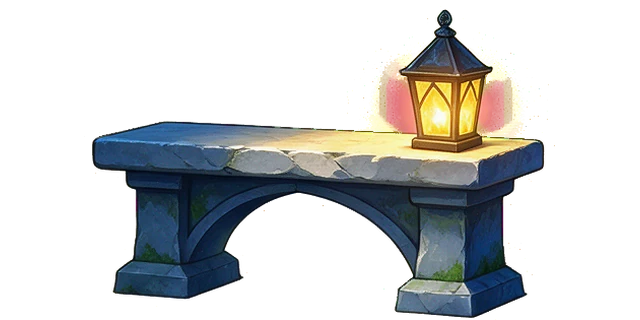
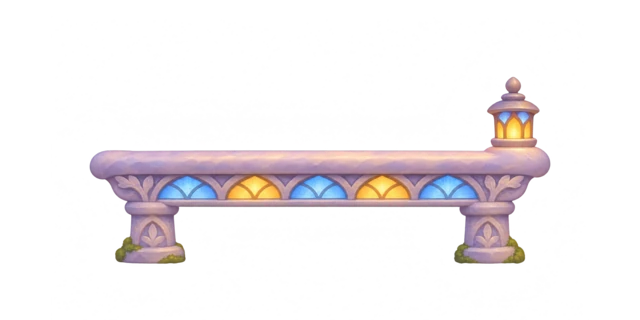
The new painted art: quiz pictures, Party Grove, owl perches (OP-404) (#254)
* OP-404: the new painted art in the game: quiz pictures, Party Grove, owl perches

- 85 quiz pictures (quiz-<key>.png, 96 and 192 px): every answer card draws its picture.
- Party Grove screens (hub-west, hub, hub-east, hub-fg) replace today's files under the same keys;
  2x screens re-encoded at WebP q80-84 to stay inside the art budget.
- The four owl perches replace today's under the same keys; stand.json, kitCatalog.ts and
  sprites.json re-measured so each stands on its feet.

The ink Commons pieces wait for OP-402's room.

* OP-404: the quiz's browser test looks for each answer's painted picture; a painter's tab keeps its boxes

---------

diff --git a/packages/shared/src/kitCatalog.ts b/packages/shared/src/kitCatalog.ts
@@ -423,7 +423,7 @@ export const KIT_CATALOG: Readonly<Record<string, KitCatalogEntry>> = {
   'kit-clearing-log-shortcut': { w: 400, h: 200, kind: 'piece', top: 55, foot: 200, left: 9, right: 392 },
   'kit-clearing-bough-perch': { w: 320, h: 120, kind: 'piece', top: 47, foot: 120, left: 23, right: 297 },
   'kit-clearing-gust-leaves': { w: 240, h: 320, kind: 'piece', top: 143, foot: 320, left: 7, right: 222 },
-  'kit-clearing-checkpoint-bench': { w: 320, h: 160, kind: 'piece', top: 19, foot: 160, left: 51, right: 266 },
+  'kit-clearing-checkpoint-bench': { w: 320, h: 160, kind: 'piece', top: 71, foot: 123, left: 50, right: 277 },
   'kit-clearing-hut-door-closed': { w: 240, h: 320, kind: 'piece', top: 93, foot: 320, left: 5, right: 235 },
   'kit-clearing-hut-door-open': { w: 240, h: 320, kind: 'piece', top: 142, foot: 320, left: 5, right: 236 },
   'kit-clearing-deck-rail': { w: 400, h: 120, kind: 'piece', top: 19, foot: 120, left: 107, right: 294 },
@@ -432,7 +432,7 @@ export const KIT_CATALOG: Readonly<Record<string, KitCatalogEntry>> = {
   'kit-neon-neon-tube-hazard': { w: 80, h: 240, kind: 'piece', top: 98, foot: 240, left: 1, right: 79 },
   'kit-neon-rooftop-door-closed': { w: 240, h: 320, kind: 'piece', top: 86, foot: 320, left: 10, right: 229 },
   'kit-neon-rooftop-door-open': { w: 240, h: 320, kind: 'piece', top: 83, foot: 320, left: 11, right: 228 },
-  'kit-neon-checkpoint-bench': { w: 320, h: 160, kind: 'piece', top: 46, foot: 160, left: 40, right: 284 },
+  'kit-neon-checkpoint-bench': { w: 320, h: 160, kind: 'piece', top: 95, foot: 148, left: 35, right: 286 },
   'kit-neon-cable-span': { w: 400, h: 80, kind: 'piece', top: 31, foot: 80, left: 97, right: 303 },
   'kit-neon-rooftop-garden': { w: 320, h: 160, kind: 'piece', top: 58, foot: 160, left: 9, right: 312 },
   'kit-neon-tank-ladder': { w: 120, h: 400, kind: 'piece', top: 105, foot: 400, left: 2, right: 118 },
@@ -449,7 +449,7 @@ export const KIT_CATALOG: Readonly<Record<string, KitCatalogEntry>> = {
   'kit-glass-cloud-ledge': { w: 320, h: 120, kind: 'piece', top: 12, foot: 112, left: 7, right: 307 },
   'kit-glass-door-pane-closed': { w: 240, h: 320, kind: 'piece', top: 34, foot: 315, left: 13, right: 225 },
   'kit-glass-door-pane-open': { w: 240, h: 320, kind: 'piece', top: 33, foot: 315, left: 13, right: 225 },
-  'kit-glass-checkpoint-bench': { w: 320, h: 160, kind: 'piece', top: 62, foot: 159, left: 46, right: 272 },
+  'kit-glass-checkpoint-bench': { w: 320, h: 160, kind: 'piece', top: 75, foot: 132, left: 45, right: 275 },
   'kit-glass-thorn-ceiling': { w: 400, h: 120, kind: 'piece', top: 14, foot: 116, left: 68, right: 328 },
   'kit-glass-act-arch': { w: 320, h: 400, kind: 'piece', top: 44, foot: 390, left: 30, right: 295 },
   'kit-glass-strand-rail': { w: 120, h: 400, kind: 'piece', top: 133, foot: 395, left: 16, right: 99 },
@@ -461,7 +461,7 @@ export const KIT_CATALOG: Readonly<Record<string, KitCatalogEntry>> = {
   'kit-ink-waterfall-curtain': { w: 240, h: 400, kind: 'piece', top: 11, foot: 398, left: 30, right: 211 },
   'kit-ink-door-paper-closed': { w: 240, h: 320, kind: 'piece', top: 140, foot: 320, left: 5, right: 236 },
   'kit-ink-door-paper-open': { w: 240, h: 320, kind: 'piece', top: 143, foot: 320, left: 5, right: 235 },
-  'kit-ink-checkpoint-bench': { w: 320, h: 160, kind: 'piece', top: 120, foot: 160, left: 61, right: 254 },
+  'kit-ink-checkpoint-bench': { w: 320, h: 160, kind: 'piece', top: 97, foot: 151, left: 40, right: 278 },
   'kit-ink-lotus-pads': { w: 320, h: 120, kind: 'piece', top: 58, foot: 117, left: 14, right: 305 },
   'kit-ink-crane-perch': { w: 120, h: 400, kind: 'piece', top: 120, foot: 399, left: 3, right: 117 },
   'kit-ink-pond-edge': { w: 400, h: 120, kind: 'piece', top: 40, foot: 117, left: 72, right: 329 },
@@ -777,8 +777,8 @@ export const KIT_CATALOG: Readonly<Record<string, KitCatalogEntry>> = {
   'kit-ink-knot-hole--ink-moon-gate': { w: 320, h: 320, kind: 'piece', top: 114, foot: 311, left: 6, right: 313, slot: 'knot-hole', standIn: 'kit-ink-moon-gate' },
   'kit-ink-knot-hole--ink-door-paper-open': { w: 240, h: 320, kind: 'piece', top: 143, foot: 320, left: 5, right: 235, slot: 'knot-hole', standIn: 'kit-ink-door-paper-open' },
   'kit-ink-knot-hole--ink-waterfall-curtain': { w: 240, h: 400, kind: 'piece', top: 11, foot: 398, left: 30, right: 211, slot: 'knot-hole', standIn: 'kit-ink-waterfall-curtain' },
-  'kit-ink-roost': { w: 320, h: 160, kind: 'piece', top: 120, foot: 160, left: 61, right: 254, slot: 'roost', standIn: 'kit-ink-checkpoint-bench' },
-  'kit-ink-roost--ink-checkpoint-bench': { w: 320, h: 160, kind: 'piece', top: 120, foot: 160, left: 61, right: 254, slot: 'roost', standIn: 'kit-ink-checkpoint-bench' },
+  'kit-ink-roost': { w: 320, h: 160, kind: 'piece', top: 97, foot: 151, left: 40, right: 278, slot: 'roost', standIn: 'kit-ink-checkpoint-bench' },
+  'kit-ink-roost--ink-checkpoint-bench': { w: 320, h: 160, kind: 'piece', top: 97, foot: 151, left: 40, right: 278, slot: 'roost', standIn: 'kit-ink-checkpoint-bench' },
   'kit-ink-lost-feather': { w: 80, h: 120, kind: 'piece', top: 12, foot: 120, left: 15, right: 64, slot: 'lost-feather', standIn: 'kit-ink-feather-lost' },
   'kit-ink-lost-feather--ink-feather-lost': { w: 80, h: 120, kind: 'piece', top: 12, foot: 120, left: 15, right: 64, slot: 'lost-feather', standIn: 'kit-ink-feather-lost' },
   'kit-ink-hazard': { w: 320, h: 120, kind: 'piece', top: 0, foot: 120, left: 0, right: 320, slot: 'hazard' },
@@ -861,8 +861,8 @@ export const KIT_CATALOG: Readonly<Record<string, KitCatalogEntry>> = {
   'kit-clearing-knot-hole--clearing-hut-door-open': { w: 240, h: 320, kind: 'piece', top: 142, foot: 320, left: 5, right: 236, slot: 'knot-hole', standIn: 'kit-clearing-hut-door-open' },
   'kit-clearing-knot-hole--clearing-vine-curtain': { w: 240, h: 320, kind: 'piece', top: 117, foot: 319, left: 5, right: 235, slot: 'knot-hole', standIn: 'kit-clearing-vine-curtain' },
   'kit-clearing-knot-hole--landmark-hut-lookout': { w: 400, h: 400, kind: 'piece', top: 22, foot: 400, left: 8, right: 392, slot: 'knot-hole', standIn: 'kit-landmark-hut-lookout' },
-  'kit-clearing-roost': { w: 320, h: 160, kind: 'piece', top: 19, foot: 160, left: 51, right: 266, slot: 'roost', standIn: 'kit-clearing-checkpoint-bench' },
-  'kit-clearing-roost--clearing-checkpoint-bench': { w: 320, h: 160, kind: 'piece', top: 19, foot: 160, left: 51, right: 266, slot: 'roost', standIn: 'kit-clearing-checkpoint-bench' },
+  'kit-clearing-roost': { w: 320, h: 160, kind: 'piece', top: 71, foot: 123, left: 50, right: 277, slot: 'roost', standIn: 'kit-clearing-checkpoint-bench' },
+  'kit-clearing-roost--clearing-checkpoint-bench': { w: 320, h: 160, kind: 'piece', top: 71, foot: 123, left: 50, right: 277, slot: 'roost', standIn: 'kit-clearing-checkpoint-bench' },
   'kit-clearing-lost-feather': { w: 80, h: 120, kind: 'piece', top: 9, foot: 120, left: 17, right: 63, slot: 'lost-feather', standIn: 'kit-clearing-feather-lost' },
   'kit-clearing-lost-feather--clearing-feather-lost': { w: 80, h: 120, kind: 'piece', top: 9, foot: 120, left: 17, right: 63, slot: 'lost-feather', standIn: 'kit-clearing-feather-lost' },
   'kit-clearing-hazard': { w: 320, h: 160, kind: 'piece', top: 24, foot: 160, left: 42, right: 278, slot: 'hazard', standIn: 'kit-clearing-bramble-patch' },
@@ -928,8 +928,8 @@ export const KIT_CATALOG: Readonly<Record<string, KitCatalogEntry>> = {
   'kit-neon-mid--neon-mid-c': { w: 800, h: 450, kind: 'layer', slot: 'mid', standIn: 'kit-neon-mid-c' },
   'kit-neon-knot-hole': { w: 240, h: 320, kind: 'piece', top: 83, foot: 320, left: 11, right: 228, slot: 'knot-hole', standIn: 'kit-neon-rooftop-door-open' },
   'kit-neon-knot-hole--neon-rooftop-door-open': { w: 240, h: 320, kind: 'piece', top: 83, foot: 320, left: 11, right: 228, slot: 'knot-hole', standIn: 'kit-neon-rooftop-door-open' },
-  'kit-neon-roost': { w: 320, h: 160, kind: 'piece', top: 46, foot: 160, left: 40, right: 284, slot: 'roost', standIn: 'kit-neon-checkpoint-bench' },
-  'kit-neon-roost--neon-checkpoint-bench': { w: 320, h: 160, kind: 'piece', top: 46, foot: 160, left: 40, right: 284, slot: 'roost', standIn: 'kit-neon-checkpoint-bench' },
+  'kit-neon-roost': { w: 320, h: 160, kind: 'piece', top: 95, foot: 148, left: 35, right: 286, slot: 'roost', standIn: 'kit-neon-checkpoint-bench' },
+  'kit-neon-roost--neon-checkpoint-bench': { w: 320, h: 160, kind: 'piece', top: 95, foot: 148, left: 35, right: 286, slot: 'roost', standIn: 'kit-neon-checkpoint-bench' },
   'kit-neon-lost-feather': { w: 80, h: 120, kind: 'piece', top: 44, foot: 118, left: 21, right: 59, slot: 'lost-feather', standIn: 'kit-neon-feather-lost' },
   'kit-neon-lost-feather--neon-feather-lost': { w: 80, h: 120, kind: 'piece', top: 44, foot: 118, left: 21, right: 59, slot: 'lost-feather', standIn: 'kit-neon-feather-lost' },
   'kit-neon-hazard': { w: 80, h: 240, kind: 'piece', top: 98, foot: 240, left: 1, right: 79, slot: 'hazard', standIn: 'kit-neon-neon-tube-hazard' },

diff --git a/apps/park/src/ui/whichOwl.ts b/apps/park/src/ui/whichOwl.ts
@@ -11,15 +11,15 @@
  *
  * Nothing typed, no names, no score shown, no back button. The answers are kept nowhere: only the
  * result goes on, as the look. The words, picture slots and points are in
- * packages/shared/src/whichOwlBank.ts. Until an artist paints the answers' pictures (OP-326,
- * docs/QUIZ-ART.md) a visitor sees each answer as a card of words (OP-365): the slot, a box with its
- * painted size on it, shows only on a painter's or a keeper's tab (showsArtBoxes), where the box
- * tells the artist what to make.
+ * packages/shared/src/whichOwlBank.ts. Each answer draws its painted picture (OP-404, quizPicture);
+ * a card with an answer still unpainted shows words alone (OP-365), and the slot, a box with its
+ * painted size on it, shows only on a painter's or a keeper's tab (showsArtBoxes).
  *
  * TODO-DOCS (OP-365): docs/QUIZ-ART.md says the game draws the dashed box for every visitor; it
  * draws it with `?paint=1` or `?keeper=1` in the address, and word cards otherwise.
  */
 import { COLOUR_SETS, QUIZ_ART_SIZE, WHICH_OWL_WORDS as W, drawCards, getSpecies, natureDef, natureOf, quizLook, type ColourSetId, type Nature, type OwlLook, type QuizAnswer, type QuizCard } from '@owl-park/shared';
+import { PUBLISHED_ART, versioned } from '../game/publishedArt';
 import { createModal } from './modal';
 import type { PreviewFrame } from './owlBuilder';
 
@@ -32,6 +32,19 @@ import type { PreviewFrame } from './owlBuilder';
 export function showsArtBoxes(search: string): boolean {
   const q = new URLSearchParams(search);
   return q.get('paint') === '1' || q.get('keeper') === '1';
+}
+
+/**
+ * An answer's painted picture as the build ships it (OP-404): `quiz-<art key>.webp` or `.png` in
+ * public/art, with its `@2x` copy for a dense screen, or null while it has none.
+ */
+export function quizPicture(pic: string, published: ReadonlyMap<string, string> = PUBLISHED_ART): { src: string; srcset: string } | null {
+  const base = `${import.meta.env.BASE_URL.replace(/\/?$/, '/')}art/`;
+  const at = (name: string) => `${base}${published === PUBLISHED_ART ? versioned(name) : encodeURIComponent(name)}`;
+  const one = ['webp', 'png'].map((ext) => `quiz-${pic}.${ext}`).find((n) => published.has(n));
+  if (!one) return null;
+  const two = ['webp', 'png'].map((ext) => `quiz-${pic}@2x.${ext}`).find((n) => published.has(n));
+  return { src: at(one), srcset: two ? `${at(one)} 1x, ${at(two)} 2x` : '' };
 }
 
 /** How a run ended: the owl's new look, and which button took it on. */
@@ -88,6 +101,8 @@ const CSS = `
 /* The picture's place (OP-326), on a painter's or keeper's tab: a box with the size to paint it at, until the art comes. */
 #hud .which-owl .wo-pic{display:flex;align-items:center;justify-content:center;width:clamp(64px,12vh,${QUIZ_ART_SIZE}px);aspect-ratio:1;border:2px dashed rgba(246,241,227,.5);border-radius:12px;
   font-size:12px;font-weight:600;letter-spacing:.02em;color:rgba(246,241,227,.75);background:rgba(246,241,227,.05)}
+/* A painted picture (OP-404) in the box's place: the same size, no dashes. */
+#hud .which-owl img.wo-pic.wo-painted{display:block;border:0;padding:0;background:none;object-fit:contain}
 #hud .which-owl .wo-feather{width:clamp(48px,10vh,76px);height:clamp(48px,10vh,76px)}
 /* The owl is the reveal's centrepiece: it never gives up its room when the words run past a phone's
    screen (a flex child shrinks by default, which left a thumb-sized owl), and on a phone the owl
@@ -195,11 +210,22 @@ export function createWhichOwlScreen(root: HTMLElement): WhichOwlScreen {
     const q = say(card.ask);
     q.classList.add('wo-step');
     const picks = document.createElement('div');
-    picks.className = `wo-picks n${card.answers.length}${artBoxes ? '' : ' words'} wo-step`;
+    // A card shows pictures when every answer on it has one (a card half pictures, half words reads as broken);
+    // a painter's tab keeps its boxes, which tell the artist each picture's size and key.
+    const pics = card.answers.map((a) => quizPicture(a.pic));
+    const pictured = !artBoxes && pics.length > 0 && pics.every((p) => p !== null);
+    picks.className = `wo-picks n${card.answers.length}${artBoxes || pictured ? '' : ' words'} wo-step`;
     picks.dataset['woCard'] = card.id;
     card.answers.forEach((a, n) => {
       const b = button('', 'wo-pick', { woAnswer: String(n) });
-      if (artBoxes) {
+      if (pictured) {
+        const { src, srcset } = pics[n]!;
+        const img = Object.assign(document.createElement('img'), { className: 'wo-pic wo-painted', src, alt: '', width: QUIZ_ART_SIZE, height: QUIZ_ART_SIZE, decoding: 'async' });
+        if (srcset) img.srcset = srcset;
+        img.setAttribute('aria-hidden', 'true');
+        img.dataset['woArt'] = a.pic;
+        b.append(img);
+      } else if (artBoxes) {
         // For the artist: the art key names the picture, and the box says the size to paint it at.
         const pic = Object.assign(document.createElement('span'), { className: 'wo-pic', textContent: `${QUIZ_ART_SIZE} × ${QUIZ_ART_SIZE}` });
         pic.setAttribute('aria-hidden', 'true');

diff --git a/apps/park/e2e/whichOwl.spec.ts b/apps/park/e2e/whichOwl.spec.ts
@@ -105,7 +105,9 @@ async function answerCards(page: Page, pick: number, isMobile: boolean): Promise
           const r = a.getBoundingClientRect();
           return Math.min(r.width, r.height);
         }),
-        boxes: el.querySelectorAll('.wo-pic, [data-wo-art]').length,
+        // A dashed box with its size on it, never shown to a visitor (OP-365), and the painted pictures (OP-404).
+        boxes: el.querySelectorAll('.wo-pic:not(.wo-painted)').length,
+        pictures: [...el.querySelectorAll<HTMLImageElement>('img.wo-painted')].map((img) => img.currentSrc || img.src),
         text: (el as HTMLElement).innerText,
         // The answers the feedback button lies over (OP-369): none.
         under: answers.filter((a) => {
@@ -126,10 +128,13 @@ async function answerCards(page: Page, pick: number, isMobile: boolean): Promise
       expect(count).toBeGreaterThanOrEqual(2);
       expect(count).toBeLessThanOrEqual(4);
     }
-    // Every answer is a big enough target for a thumb, and a card of words: no picture slot, and no box
-    // with its size written on it, which a visitor read as a park not finished (OP-365).
+    // Every answer is a big enough target for a thumb with its painted picture (OP-404), and no box with
+    // its size written on it, which a visitor read as a park not finished (OP-365).
     for (const size of seen.sizes) expect(size).toBeGreaterThanOrEqual(44);
     expect(seen.boxes).toBe(0);
+    expect(seen.pictures, `card ${id}: a painted picture on every answer`).toHaveLength(count);
+    for (const src of seen.pictures) expect(src).toMatch(/\/art\/quiz-[a-z-]+(%402x)?\.png/);
+    await expect.poll(() => page.locator('[data-wo-card] img.wo-painted').evaluateAll((imgs) => imgs.every((i) => (i as HTMLImageElement).complete && (i as HTMLImageElement).naturalWidth > 0))).toBe(true);
     expect(seen.text).not.toMatch(/\d+\s*[×x]\s*\d+/);
     // The feedback button, on screen through the quiz, lies over no answer: on a phone it sat on the first (OP-369).
     expect(seen.under, `the feedback button over an answer of card ${id}`).toBe(0);

diff --git a/apps/park/src/ui/whichOwl.test.ts b/apps/park/src/ui/whichOwl.test.ts
@@ -1,5 +1,5 @@
 import { describe, expect, it } from 'vitest';
-import { showsArtBoxes } from './whichOwl';
+import { quizPicture, showsArtBoxes } from './whichOwl';
 
 describe('the quiz\'s picture boxes (OP-365)', () => {
   it('show on a painter\'s or a keeper\'s tab, where they tell the artist what to paint', () => {
@@ -14,5 +14,16 @@ describe('the quiz\'s picture boxes (OP-365)', () => {
     expect(showsArtBoxes('?paint=0')).toBe(false);
     expect(showsArtBoxes('?paint=yes&keeper=true')).toBe(false);
     expect(showsArtBoxes('?boxes=1&sizes=1')).toBe(false);
+  });
+});
+
+describe('the quiz\'s painted pictures (OP-404)', () => {
+  it('are each answer\'s quiz-<key> file with its 2x copy, and none where the build ships no such file', () => {
+    const shipped = new Map([['quiz-moon.png', 'a'], ['quiz-moon@2x.png', 'b'], ['quiz-sun.webp', 'c']]);
+    const moon = quizPicture('moon', shipped)!;
+    expect(moon.src).toMatch(/\/art\/quiz-moon\.png$/);
+    expect(moon.srcset).toMatch(/quiz-moon\.png 1x, .*quiz-moon%402x\.png 2x$/);
+    expect(quizPicture('sun', shipped)).toEqual({ src: expect.stringMatching(/quiz-sun\.webp$/), srcset: '' });
+    expect(quizPicture('dawn', shipped)).toBeNull();
   });
 });

diff --git a/apps/park/src/game/artBudget.test.ts b/apps/park/src/game/artBudget.test.ts
@@ -13,9 +13,7 @@ const PNG_MAX_KB = 300;
 const WEBP_MAX_KB = 700;
 
 /** Over the PNG budget on purpose, each with why. */
-const OVER_BUDGET: Record<string, string> = {
-  'hub-fg@2x.png': "the hub's overlay at 2x: 256 colours already, which WebP does not beat, and only computers load it (phones take the 1x)",
-};
+const OVER_BUDGET: Record<string, string> = {};
 
 const kb = (f: string) => statSync(join(ART, f)).size / 1024;
 
